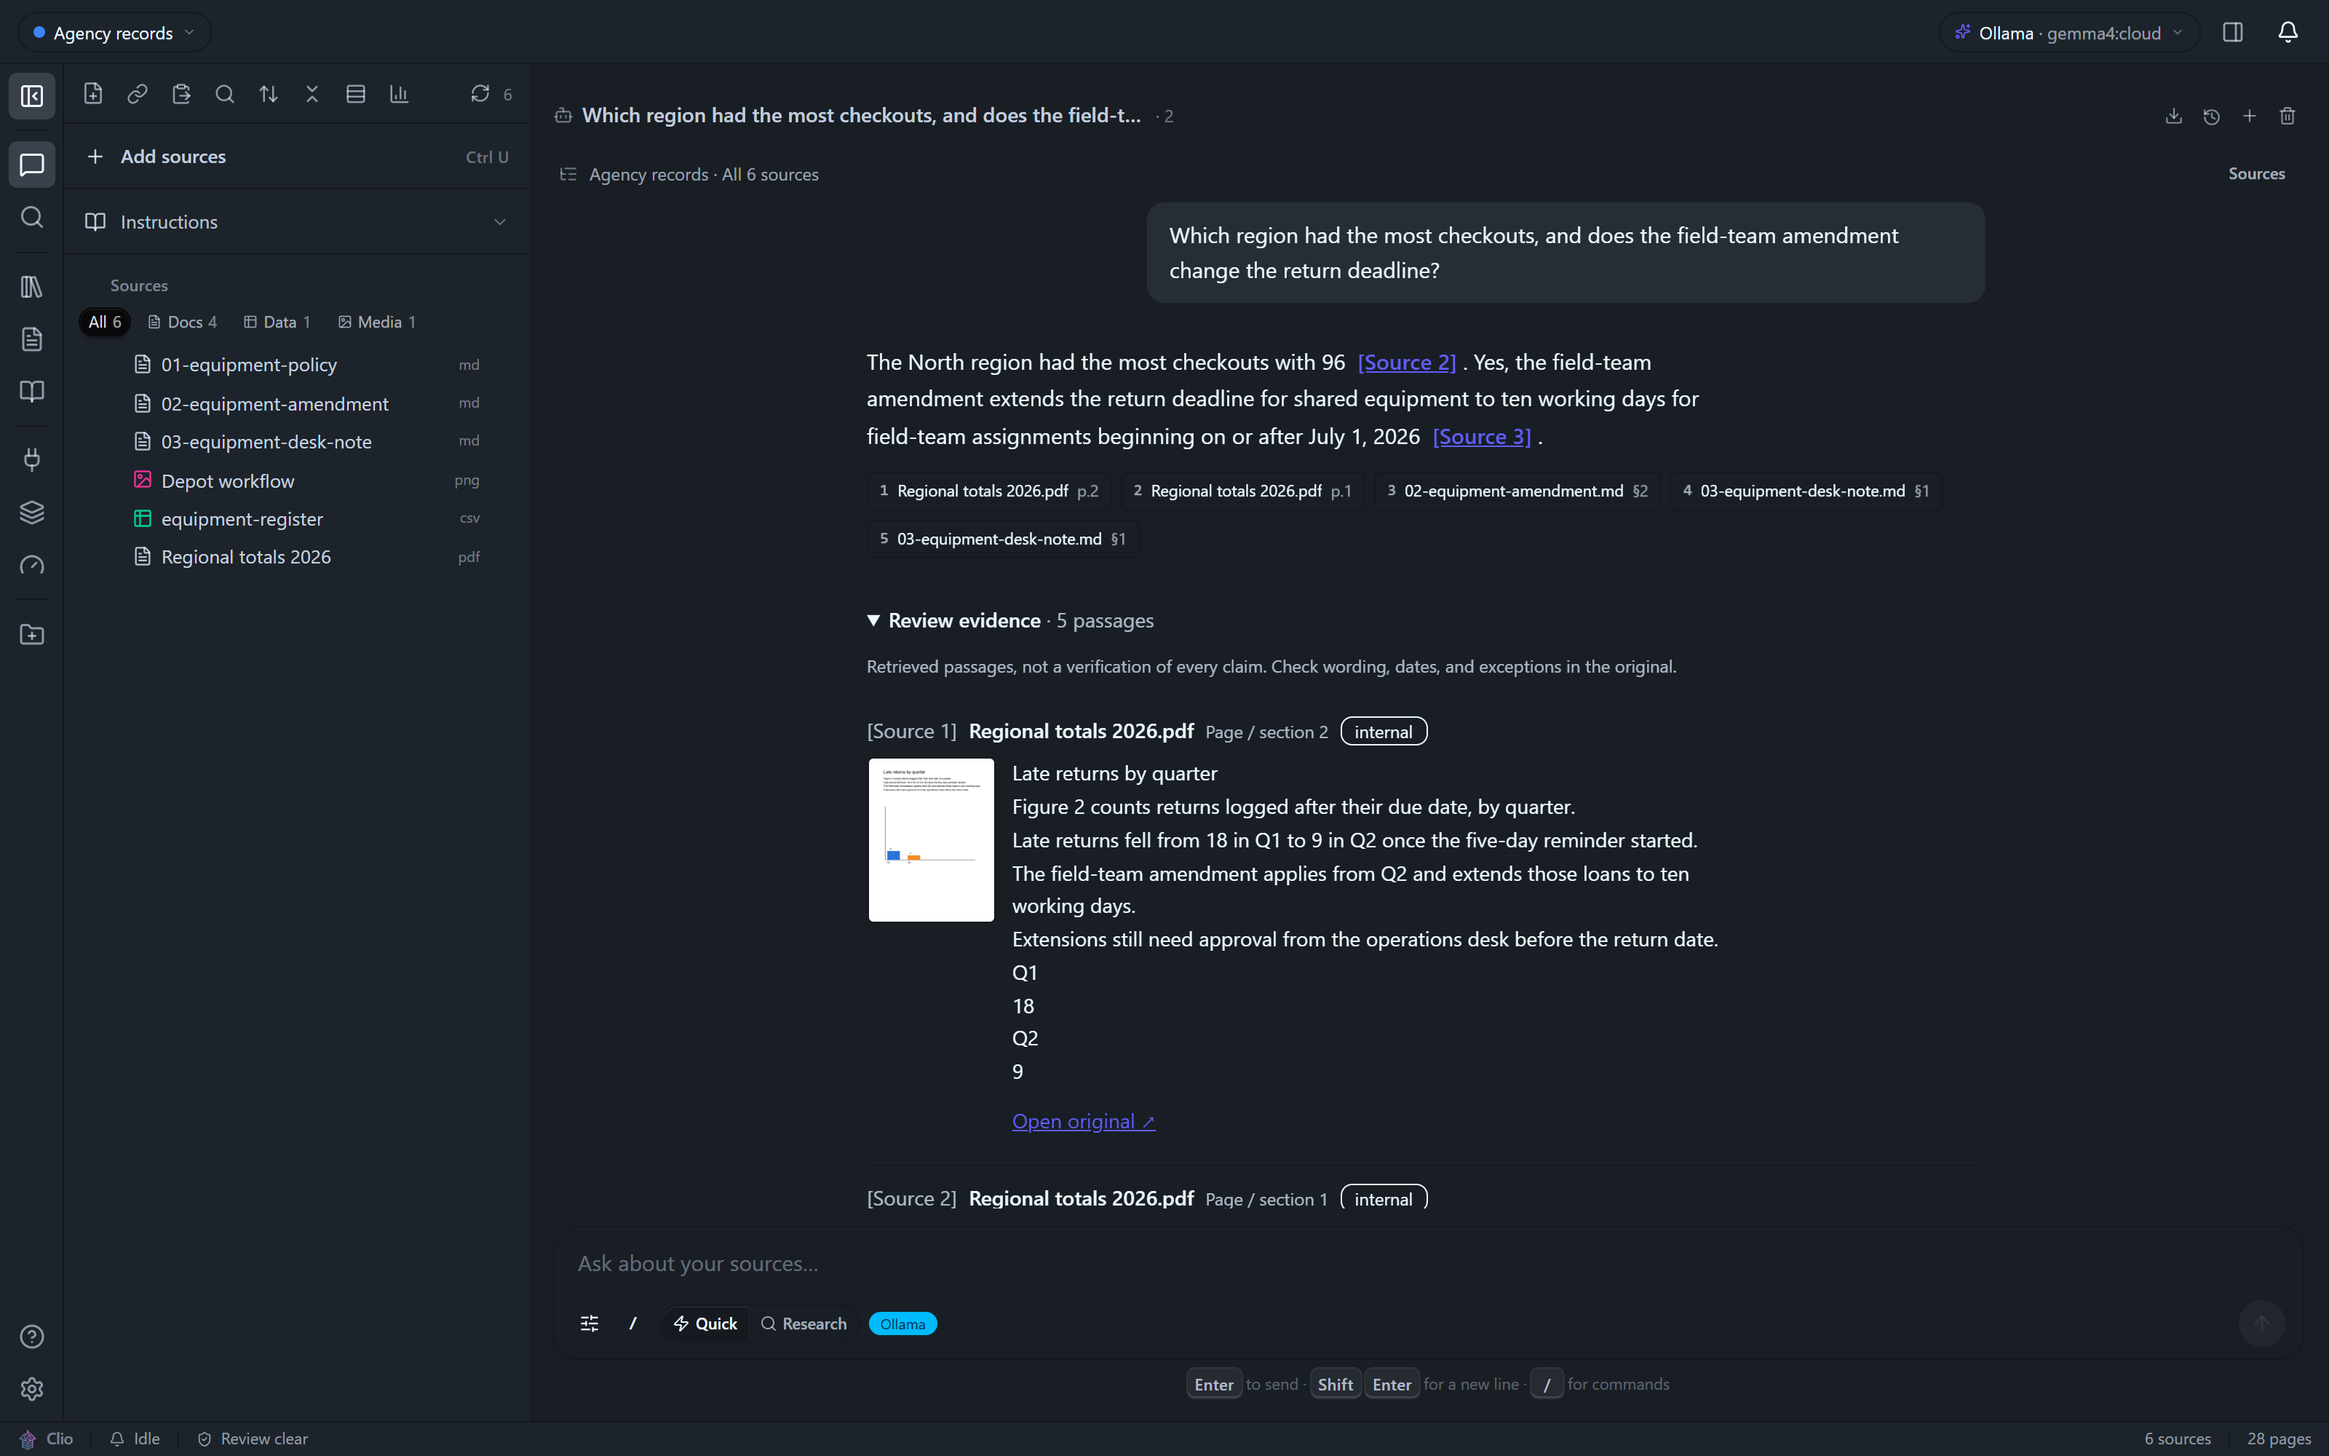
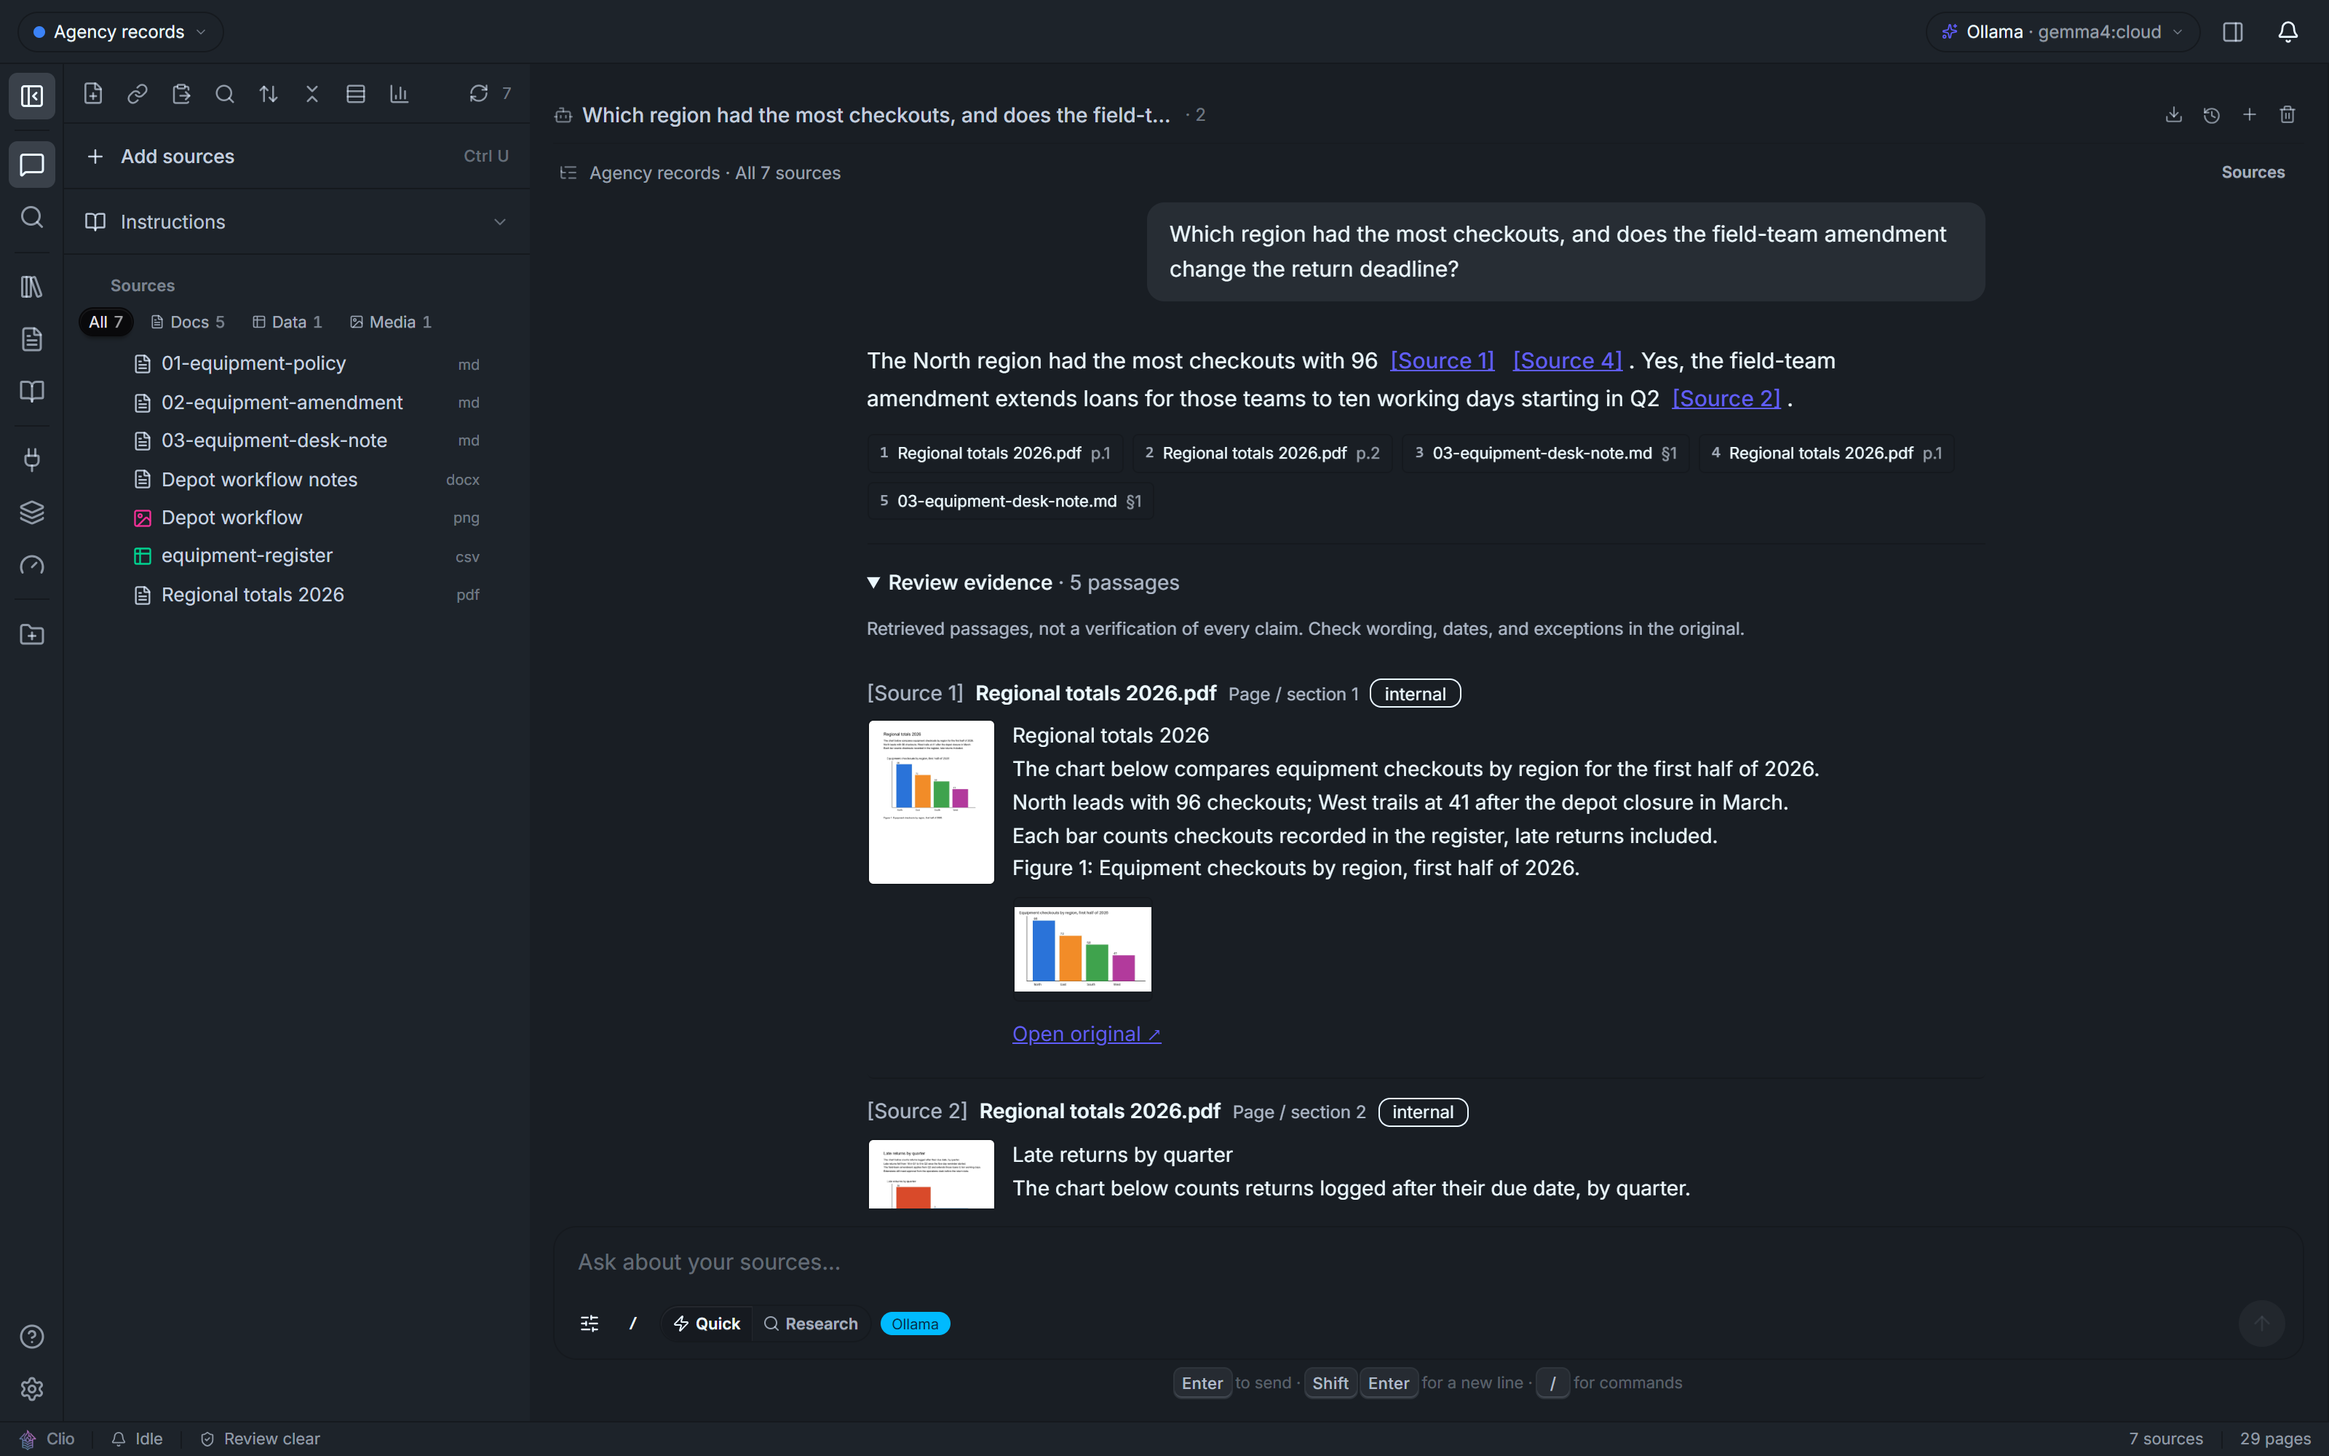
Show extracted figures in the README screenshots
The sample sources the screenshot script writes now give the figure
extractor something to find: the two-page PDF embeds its bar charts as
raster images instead of drawing them with PDF operators, and a DOCX with
the depot diagram in it joins the set. The Find and Ask shots are retaken
with those sources, so each cited PDF page shows its chart under the
passage beside the page thumbnail, and the README captions say so.

diff --git a/scripts/screenshots.py b/scripts/screenshots.py
@@ -9,12 +9,14 @@ Setup, once:
     pip install playwright            # the browser channel below needs no download
 
 Then, against a Clio that has a collection to show (the welcome screen's
-sample set is what the README uses, plus the two files ``--make-sources``
-writes: a two-page PDF with a bar chart on each page and a PNG diagram, so
-the page thumbnails have something to draw):
+sample set is what the README uses, plus the three files ``--make-sources``
+writes: a two-page PDF with a chart image on each page, a DOCX with a
+diagram in it, and that diagram as a PNG, so the page thumbnails and the
+extracted figures have something to show; this step needs Pillow and
+python-docx, which the project's venv has):
 
     python scripts/screenshots.py --make-sources ./shot-sources
-    # add those two files and the sample set to a collection, then:
+    # add those three files and the sample set to a collection, then:
     python scripts/screenshots.py --base http://localhost:8473 --collection <id> --out docs/screenshots
 
 The Ask shot needs a model: ``--model`` names an Ollama model reachable from
@@ -34,79 +36,150 @@ QUESTION = "Which region had the most checkouts, and does the field-team amendme
 FIND = "checkouts by region and the depot workflow"
 
 
-# ── the two extra sources ─────────────────────────────────────────────
+# ── the extra sources ─────────────────────────────────────────────────
+#
+# Hand-written so no PDF library is needed: a two-page PDF whose charts are
+# embedded raster images (the figure extractor keeps those; a chart drawn
+# with PDF operators has no picture to pull out), a DOCX with the depot
+# diagram embedded, and the diagram itself as a PNG. Pillow and python-docx
+# are in the project's venv.
 
 
-def _page_stream(title: str, lines: list[str], bars=None) -> bytes:
+def _font(size: int):
+    from PIL import ImageFont
+    try:
+        return ImageFont.load_default(size=size)
+    except TypeError:  # Pillow < 10.1 has no scalable default
+        return ImageFont.load_default()
+
+
+def _bar_chart(title: str, bars, colours, size=(900, 560)):
+    from PIL import Image, ImageDraw
+    img = Image.new("RGB", size, "white")
+    d = ImageDraw.Draw(img)
+    d.text((30, 20), title, fill="#111", font=_font(26))
+    base, left = size[1] - 70, 80
+    d.line((left, 60, left, base), fill="#333", width=3)
+    d.line((left, base, size[0] - 40, base), fill="#333", width=3)
+    top = max(v for _, v in bars)
+    x = left + 40
+    w = (size[0] - left - 120) // len(bars) - 30
+    for (label, value), colour in zip(bars, colours):
+        h = int((base - 90) * value / top)
+        d.rectangle((x, base - h, x + w, base), fill=colour)
+        d.text((x + 6, base - h - 26), str(value), fill="#111", font=_font(20))
+        d.text((x + 6, base + 10), label, fill="#111", font=_font(20))
+        x += w + 30
+    return img
+
+
+def _jpeg(img) -> bytes:
+    import io
+    buf = io.BytesIO()
+    img.save(buf, "JPEG", quality=85)
+    return buf.getvalue()
+
+
+def _page_stream(title: str, lines: list[str], image_ref: str, size, caption: str) -> bytes:
+    """Title, a few lines, the picture (468 pt wide) and its caption under it."""
     parts = [f"BT /F1 20 Tf 72 720 Td ({title}) Tj ET"]
     y = 690
     for line in lines:
         parts.append(f"BT /F1 12 Tf 72 {y} Td ({line}) Tj ET")
         y -= 18
-    if bars:
-        x = 90
-        parts.append("0.2 0.2 0.2 RG 1 w 80 300 m 80 560 l S 80 300 m 520 300 l S")
-        colours = ["0.16 0.45 0.85", "0.95 0.55 0.15", "0.25 0.70 0.35", "0.75 0.25 0.55"]
-        for i, (label, value) in enumerate(bars):
-            h = value * 2.4
-            parts.append(f"{colours[i % 4]} rg {x} 300 60 {h} re f")
-            parts.append(f"0 g BT /F1 10 Tf {x} 285 Td ({label}) Tj ET")
-            parts.append(f"BT /F1 10 Tf {x + 10} {300 + h + 6} Td ({value}) Tj ET")
-            x += 100
+    w, h = 468, int(468 * size[1] / size[0])
+    top = y - 10
+    parts.append(f"q {w} 0 0 {h} 72 {top - h} cm {image_ref} Do Q")
+    parts.append(f"BT /F1 11 Tf 72 {top - h - 18} Td ({caption}) Tj ET")
     return "\n".join(parts).encode("latin-1")
 
 
-def make_sources(out: Path) -> None:
-    """A hand-written PDF (real text, drawn charts) and a PNG diagram."""
-    out.mkdir(parents=True, exist_ok=True)
-    pages = [
-        _page_stream("Regional totals 2026", [
-            "Figure 1 compares equipment checkouts by region for the first half of 2026.",
-            "North leads with 96 checkouts; West trails at 41 after the depot closure in March.",
-            "Each bar counts checkouts recorded in the register, late returns included.",
-        ], bars=[("North", 96), ("East", 72), ("South", 58), ("West", 41)]),
-        _page_stream("Late returns by quarter", [
-            "Figure 2 counts returns logged after their due date, by quarter.",
-            "Late returns fell from 18 in Q1 to 9 in Q2 once the five-day reminder started.",
-            "The field-team amendment applies from Q2 and extends those loans to ten working days.",
-            "Extensions still need approval from the operations desk before the return date.",
-        ], bars=[("Q1", 18), ("Q2", 9)]),
-    ]
+def _pdf(pages) -> bytes:
+    """pages: (stream, jpeg bytes, (width, height)) per page; one image each."""
     objs = [b"<< /Type /Catalog /Pages 2 0 R >>"]
-    kids = " ".join(f"{3 + i * 2} 0 R" for i in range(len(pages)))
-    objs.append(f"<< /Type /Pages /Kids [{kids}] /Count {len(pages)} >>".encode())
-    font_num = 3 + len(pages) * 2
-    for i, stream in enumerate(pages):
-        objs.append(f"<< /Type /Page /Parent 2 0 R /MediaBox [0 0 612 792] /Contents {4 + i * 2} 0 R "
-                    f"/Resources << /Font << /F1 {font_num} 0 R >> >> >>".encode())
+    n = len(pages)
+    kids = " ".join(f"{3 + i * 3} 0 R" for i in range(n))
+    objs.append(f"<< /Type /Pages /Kids [{kids}] /Count {n} >>".encode())
+    font_num = 3 + n * 3
+    for i, (stream, jpeg, (w, h)) in enumerate(pages):
+        content_num, image_num = 4 + i * 3, 5 + i * 3
+        objs.append(f"<< /Type /Page /Parent 2 0 R /MediaBox [0 0 612 792] /Contents {content_num} 0 R "
+                    f"/Resources << /Font << /F1 {font_num} 0 R >> /XObject << /Im1 {image_num} 0 R >> >> >>".encode())
         objs.append(b"<< /Length " + str(len(stream)).encode() + b" >>\nstream\n" + stream + b"\nendstream")
+        objs.append((f"<< /Type /XObject /Subtype /Image /Width {w} /Height {h} /ColorSpace /DeviceRGB "
+                     f"/BitsPerComponent 8 /Filter /DCTDecode /Length {len(jpeg)} >>\nstream\n").encode()
+                    + jpeg + b"\nendstream")
     objs.append(b"<< /Type /Font /Subtype /Type1 /BaseFont /Helvetica >>")
     pdf = bytearray(b"%PDF-1.4\n")
     offsets = []
-    for n, body in enumerate(objs, start=1):
+    for num, body in enumerate(objs, start=1):
         offsets.append(len(pdf))
-        pdf += f"{n} 0 obj\n".encode() + body + b"\nendobj\n"
+        pdf += f"{num} 0 obj\n".encode() + body + b"\nendobj\n"
     xref = len(pdf)
     pdf += f"xref\n0 {len(objs) + 1}\n0000000000 65535 f \n".encode()
     for off in offsets:
         pdf += f"{off:010d} 00000 n \n".encode()
     pdf += f"trailer\n<< /Size {len(objs) + 1} /Root 1 0 R >>\nstartxref\n{xref}\n%%EOF\n".encode()
-    (out / "Regional totals 2026.pdf").write_bytes(pdf)
+    return bytes(pdf)
 
+
+def _diagram():
     from PIL import Image, ImageDraw
     img = Image.new("RGB", (1000, 640), "white")
     d = ImageDraw.Draw(img)
     d.rectangle((40, 40, 960, 600), outline="#333", width=4)
-    d.text((70, 70), "Depot workflow: checkout, use, return", fill="#111")
+    d.text((70, 70), "Depot workflow: checkout, use, return", fill="#111", font=_font(28))
     x = 90
     for label, colour in [("Checkout desk", "#2a74d9"), ("Field team", "#f28c28"), ("Return bin", "#3fa34d")]:
         d.rounded_rectangle((x, 250, x + 220, 380), radius=18, fill=colour)
-        d.text((x + 30, 305), label, fill="white")
+        d.text((x + 24, 300), label, fill="white", font=_font(24))
         if x + 300 < 960:
             d.line((x + 220, 315, x + 300, 315), fill="#333", width=5)
             d.polygon([(x + 300, 315), (x + 280, 303), (x + 280, 327)], fill="#333")
         x += 300
-    img.save(out / "Depot workflow.png")
+    return img
+
+
+def make_sources(out: Path) -> None:
+    """The PDF with a chart image on each page, the DOCX with the diagram in
+    it, and the diagram on its own as a PNG."""
+    out.mkdir(parents=True, exist_ok=True)
+    regions = _bar_chart("Equipment checkouts by region, first half of 2026",
+                         [("North", 96), ("East", 72), ("South", 58), ("West", 41)],
+                         ["#2a74d9", "#f28c28", "#3fa34d", "#b23a9c"])
+    quarters = _bar_chart("Late returns by quarter", [("Q1", 18), ("Q2", 9)], ["#d94a2a", "#28a0f2"])
+    pages = [
+        (_page_stream("Regional totals 2026", [
+            "The chart below compares equipment checkouts by region for the first half of 2026.",
+            "North leads with 96 checkouts; West trails at 41 after the depot closure in March.",
+            "Each bar counts checkouts recorded in the register, late returns included.",
+        ], "/Im1", regions.size, "Figure 1: Equipment checkouts by region, first half of 2026."),
+         _jpeg(regions), regions.size),
+        (_page_stream("Late returns by quarter", [
+            "The chart below counts returns logged after their due date, by quarter.",
+            "Late returns fell from 18 in Q1 to 9 in Q2 once the five-day reminder started.",
+            "The field-team amendment applies from Q2 and extends those loans to ten working days.",
+            "Extensions still need approval from the operations desk before the return date.",
+        ], "/Im1", quarters.size, "Figure 2: Late returns by quarter, 2026."),
+         _jpeg(quarters), quarters.size),
+    ]
+    (out / "Regional totals 2026.pdf").write_bytes(_pdf(pages))
+
+    diagram = _diagram()
+    diagram.save(out / "Depot workflow.png")
+
+    import docx
+    from docx.shared import Inches
+    d = docx.Document()
+    d.add_heading("Depot workflow notes", 0)
+    d.add_paragraph("Every piece of equipment moves through three stations: the checkout desk records the loan, "
+                    "the field team uses the item on site, and the return bin closes the loan when the item "
+                    "comes back. The diagram below shows the depot workflow from checkout to return.")
+    d.add_picture(str(out / "Depot workflow.png"), width=Inches(5.5))
+    d.add_paragraph("Figure 1: The depot workflow from checkout desk to return bin.")
+    d.add_paragraph("A loan that misses its return date is logged as a late return and counted in the "
+                    "quarterly totals. The operations desk reviews late returns every Monday.")
+    d.save(out / "Depot workflow notes.docx")
     print("wrote", sorted(p.name for p in out.iterdir()))
 
 

diff --git a/README.md b/README.md
@@ -17,7 +17,7 @@ default install needs no configuration at all.
 
 <picture>
   <source media="(prefers-color-scheme: dark)" srcset="docs/screenshots/01-ask-cited-answer-dark.png">
-  <img src="docs/screenshots/01-ask-cited-answer.png" alt="Clio's Ask tab: a question about equipment checkouts answered with [Source N] citations, a strip of source chips, and the Review evidence panel showing each cited passage beside a thumbnail of the page it came from." width="100%">
+  <img src="docs/screenshots/01-ask-cited-answer.png" alt="Clio's Ask tab: a question about equipment checkouts answered with [Source N] citations, a strip of source chips, and the Review evidence panel showing each cited passage beside a thumbnail of the page it came from, with the chart embedded in that page under it." width="100%">
 </picture>
 
 Clio is named for the Muse of history: daughter of Zeus and of Mnemosyne,
@@ -345,15 +345,17 @@ disables cloud providers and model downloads entirely.
 
 The pictures follow your system theme; every one has a light and a dark
 version in [docs/screenshots](docs/screenshots). The sources are the
-fictional sample set from the welcome screen plus a two-page PDF and a
-diagram, indexed on a laptop with a local Ollama model.
+fictional sample set from the welcome screen plus a two-page PDF with a
+chart on each page, a DOCX and a diagram, indexed on a laptop with a local
+Ollama model.
 
 **Find** returns the passages that match, without a model. A PDF page or an
-image file shows a thumbnail of the page the passage came from.
+image file shows a thumbnail of the page the passage came from, and a chart
+embedded in that page appears under the passage.
 
 <picture>
   <source media="(prefers-color-scheme: dark)" srcset="docs/screenshots/02-find-results-dark.png">
-  <img src="docs/screenshots/02-find-results.png" alt="The Find tab: a query with its matched words highlighted in each passage, and page thumbnails beside a PDF result and a PNG result." width="100%">
+  <img src="docs/screenshots/02-find-results.png" alt="The Find tab: a query with its matched words highlighted in each passage, page thumbnails beside a PDF result and a PNG result, and the bar chart embedded in the PDF page shown under its passage." width="100%">
 </picture>
 
 **Connect** hands the same collections to Claude Code, Codex, Cursor and any
